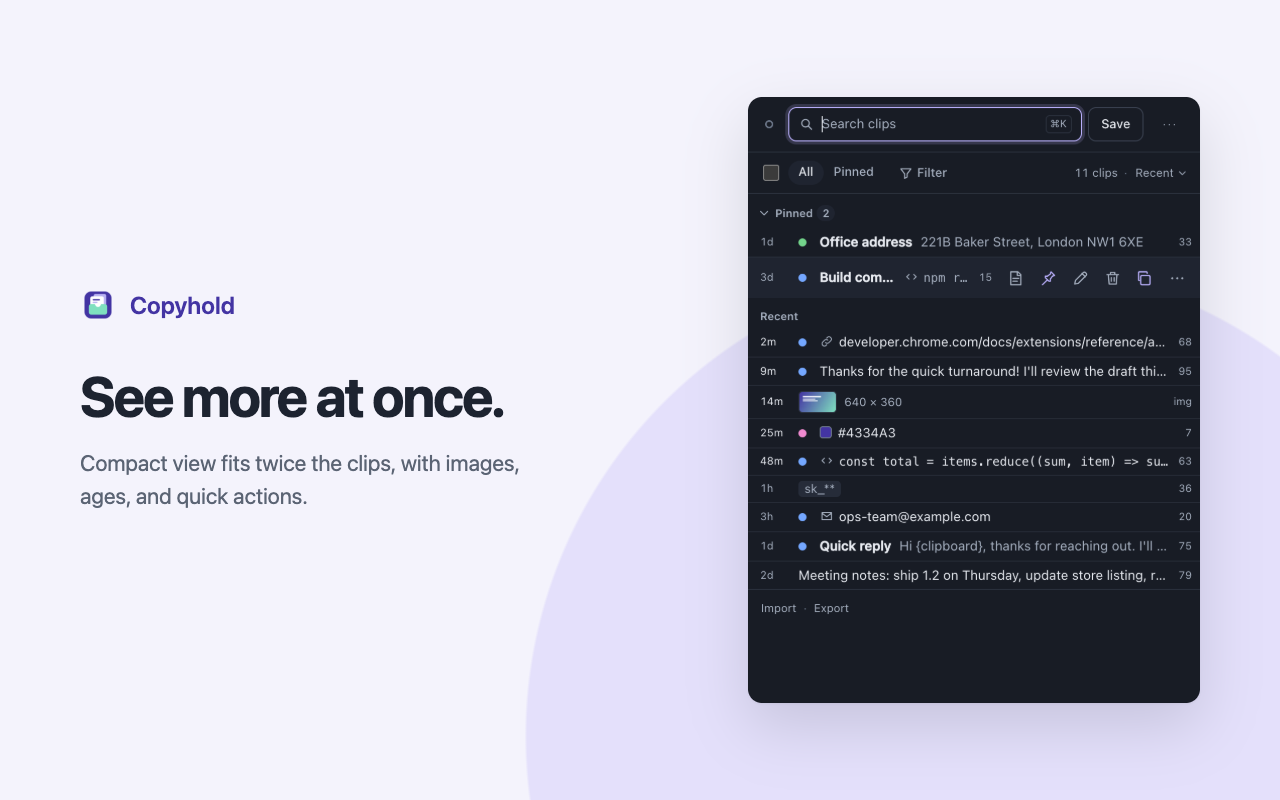
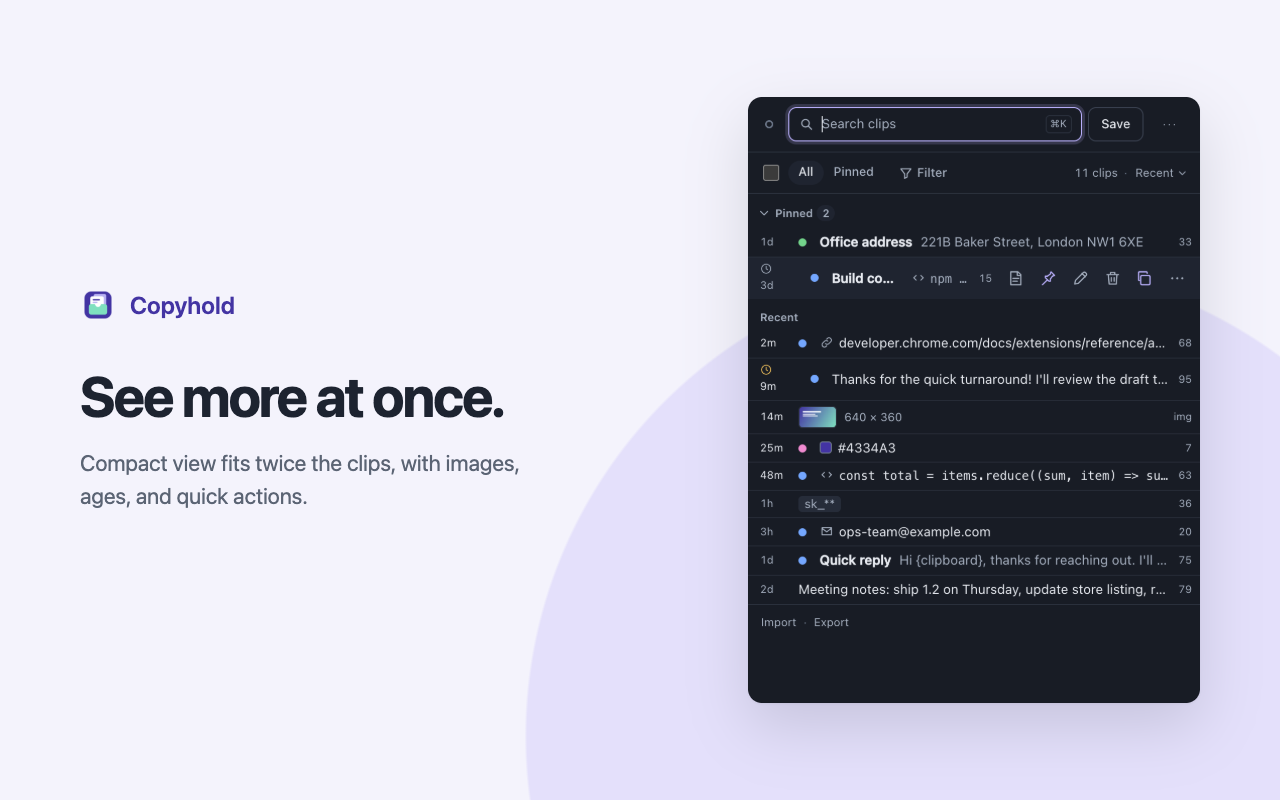
Mark expiring clips with a clock, show full details in Preview, and close with Escape
- Rows with an expiry show a clock beside their age, amber in the last
  hour, instead of an expiry string; the tooltip on the age has the date.
- Preview lists the category, subcategory, tags, expiry, saved and last
  copied dates, copy count, length, visibility, template, and source.
- In the popup, Escape closes Preview, menus, Settings, selection, or
  search text first, and closes the popup when nothing is open.
- Tests, docs, website, and screenshots.

diff --git a/src/popup/modules/list.js b/src/popup/modules/list.js
@@ -5,7 +5,7 @@ import { sensitiveLabel } from "../../lib/sensitive.js";
 import { updateSettings } from "../../lib/settings.js";
 import * as store from "../../lib/store.js";
 import { copyEntry, deleteEntry, openClipPreview, togglePin } from "./actions.js";
-import { byId, icon, iconPaths, run, status, textLine, timeElement } from "./dom.js";
+import { byId, dateFormat, icon, iconPaths, run, status, textLine, timeElement } from "./dom.js";
 import { openEditor } from "./editor.js";
 import { filterByTag, showActiveFilters } from "./filters.js";
 import { menuIsOpen, openMenu, openMenuForActive, recentlyClosedFor } from "./menu.js";
@@ -34,7 +34,10 @@ let copiedFeedbackTimer;
 
 setInterval(() => {
   for (const time of clipList.querySelectorAll("time")) time.textContent = relativeTime(time.dateTime);
-  for (const age of clipList.querySelectorAll(".clip-age")) age.textContent = shortAge(age.dataset.time);
+  for (const age of clipList.querySelectorAll(".clip-age")) {
+    age.querySelector(".age-text").textContent = shortAge(age.dataset.time);
+    if (age.dataset.expires) age.classList.toggle("expiry-soon", expiresSoon(age.dataset.expires));
+  }
 }, 60_000);
 
 export function clipName(entry) {
@@ -143,7 +146,7 @@ function hostOf(url) {
 // The category, tags, template badge, and source page under a clip. Selecting a tag filters by it.
 function labelsFor(entry) {
   const tags = entry.tags ?? [];
-  if (!entry.category && !tags.length && !entry.template && !entry.sourceUrl && !entry.expiresAt && !entry.sensitive) return null;
+  if (!entry.category && !tags.length && !entry.template && !entry.sourceUrl && !entry.sensitive) return null;
   const labels = document.createElement("div");
   labels.className = "clip-labels";
   // The chips and link are for pointers; screen readers get the same facts as text, since options can't hold controls.
@@ -177,12 +180,6 @@ function labelsFor(entry) {
     chip.addEventListener("click", () => filterByTag(tag));
     labels.append(chip);
   }
-  if (entry.expiresAt) {
-    const expiry = document.createElement("span");
-    expiry.className = "label-expiry";
-    appendMessage(expiry, "metaExpires", timeElement(entry.expiresAt));
-    labels.append(expiry);
-  }
   if (entry.sourceUrl) {
     const source = textLine("span", "source-link", t("fromSite", hostOf(entry.sourceUrl)));
     source.title = entry.sourceTitle ? `${entry.sourceTitle}\n${entry.sourceUrl}` : entry.sourceUrl;
@@ -199,6 +196,18 @@ function describeLabels(entry) {
   if (entry.tags?.length) parts.push(t("tagsDescription", entry.tags.join(", ")));
   if (entry.sourceUrl) parts.push(t("fromSite", hostOf(entry.sourceUrl)));
   return parts.join(". ");
+}
+
+function expiresSoon(expiresAt) {
+  return Date.parse(expiresAt) - Date.now() < 3_600_000;
+}
+
+/** When the clip was saved or copied, how long it is, and when it expires, in one line. */
+export function clipSummary(entry) {
+  const usedAt = entry.lastUsedAt ?? entry.createdAt;
+  const parts = [t(entry.lastUsedAt ? "metaCopied" : "metaSaved", relativeTime(usedAt)), sizeLabel(entry)];
+  if (entry.expiresAt) parts.push(t("expiresAt", relativeTime(entry.expiresAt), dateFormat.format(new Date(entry.expiresAt))));
+  return parts.join(" · ");
 }
 
 function sizeLabel(entry) {
@@ -219,11 +228,20 @@ function itemFor(entry) {
   key.className = "clip-key";
   key.setAttribute("aria-hidden", "true");
   const usedAt = entry.lastUsedAt ?? entry.createdAt;
-  const age = textLine("span", Date.now() - Date.parse(usedAt) < 3_600_000 ? "clip-age is-fresh" : "clip-age", shortAge(usedAt));
+  const age = document.createElement("span");
+  age.className = Date.now() - Date.parse(usedAt) < 3_600_000 ? "clip-age is-fresh" : "clip-age";
   age.dataset.time = usedAt;
+  // Clips that delete themselves show a clock beside their age, amber in the last hour; the details are in the tooltip and Preview.
+  if (entry.expiresAt) {
+    age.dataset.expires = entry.expiresAt;
+    age.classList.add("has-expiry");
+    age.classList.toggle("expiry-soon", expiresSoon(entry.expiresAt));
+    age.append(icon("clock", "action-icon expiry-icon"));
+  }
+  age.append(textLine("span", "age-text", shortAge(usedAt)));
   age.setAttribute("aria-hidden", "true");
   // The details line is gone from view; the age's tooltip keeps when it was used and how long it is.
-  age.title = `${t(entry.lastUsedAt ? "metaCopied" : "metaSaved", relativeTime(usedAt))} · ${sizeLabel(entry)}`;
+  age.title = clipSummary(entry);
   const label = sizeLabel(entry);
   const size = textLine("span", "clip-size", entry.kind === "image" ? t("imageShort") : displayLength(entry.text).toLocaleString());
   size.title = label;

diff --git a/src/popup/modules/actions.js b/src/popup/modules/actions.js
@@ -1,13 +1,14 @@
 import { copyClip } from "../../lib/clipboard.js";
 import { isExpired } from "../../lib/entries.js";
-import { clipPreview } from "../../lib/format.js";
+import { clipPreview, displayLength, relativeTime } from "../../lib/format.js";
+import { sensitiveLabel } from "../../lib/sensitive.js";
 import * as store from "../../lib/store.js";
 import { transformLabel } from "../../lib/transforms.js";
-import { byId, fullTab, run } from "./dom.js";
-import { refresh, showCopyFeedback } from "./list.js";
+import { byId, dateFormat, fullTab, icon, run, textLine } from "./dom.js";
+import { categoryDot, refresh, showCopyFeedback } from "./list.js";
 import { offerUndo } from "./undo.js";
 import { state } from "./state.js";
-import { t } from "../../lib/i18n.js";
+import { t, tn } from "../../lib/i18n.js";
 
 const previewDialog = byId("clip-preview");
 const previewText = byId("clip-preview-text");
@@ -88,6 +89,56 @@ function showPreviewContent(reveal) {
   previewText.textContent = reveal ? entry.text : clipPreview(entry.text, entry.visibility);
 }
 
+// Everything Copyhold knows about the clip, as label and value pairs under its content.
+function showDetails(entry) {
+  const rows = [];
+  const add = (label, ...values) => {
+    const value = document.createElement("dd");
+    value.append(...values);
+    rows.push(textLine("dt", "", label), value);
+  };
+  const none = () => textLine("span", "detail-none", t("detailNone"));
+  const dated = (timestamp) => `${dateFormat.format(new Date(timestamp))} (${relativeTime(timestamp)})`;
+
+  const category = document.createElement("span");
+  if (entry.category) {
+    const dot = categoryDot(entry.category);
+    if (dot) category.append(dot);
+    category.append(entry.category);
+  }
+  add(t("category"), entry.category ? category : none());
+  add(t("subcategory"), entry.subcategory || none());
+  add(t("tags"), entry.tags?.length ? entry.tags.map((tag) => `#${tag}`).join("  ") : none());
+
+  const expiry = document.createElement("span");
+  if (entry.expiresAt) {
+    expiry.className = Date.parse(entry.expiresAt) - Date.now() < 3_600_000 ? "detail-expiry expiry-soon" : "detail-expiry";
+    expiry.append(icon("clock", "action-icon expiry-icon"), dated(entry.expiresAt));
+    if (entry.defaultExpiry) expiry.append(textLine("span", "detail-note", t("detailDefaultExpiry")));
+  }
+  add(t("detailExpires"), entry.expiresAt ? expiry : t("noExpiry"));
+  add(t("detailSaved"), dated(entry.createdAt));
+  add(t("detailLastCopied"), entry.lastUsedAt
+    ? `${dated(entry.lastUsedAt)} · ${tn("timesCopied", entry.useCount ?? 0)}`
+    : t("detailNeverCopied"));
+  add(entry.kind === "image" ? t("detailSize") : t("detailLength"), entry.kind === "image"
+    ? t("imageDimensions", entry.width, entry.height)
+    : tn("characters", displayLength(entry.text)));
+  const visibility = { visible: t("visibilityShown"), masked: t("visibilityMasked"), hidden: t("visibilityHidden") }[entry.visibility];
+  add(t("detailVisibility"), entry.sensitive ? `${visibility} · ${t("maskedAutomatically", sensitiveLabel(entry.sensitive))}` : visibility);
+  if (entry.template) add(t("templateLabel"), t("detailTemplate"));
+  if (entry.sourceUrl) {
+    const link = document.createElement("a");
+    link.href = entry.sourceUrl;
+    link.target = "_blank";
+    link.rel = "noopener noreferrer";
+    link.textContent = entry.sourceTitle || entry.sourceUrl;
+    link.title = entry.sourceUrl;
+    add(t("detailSource"), link);
+  }
+  byId("clip-preview-details").replaceChildren(...rows);
+}
+
 function setRevealed(revealed) {
   revealPreview.dataset.revealed = String(revealed);
   revealPreview.textContent = revealed ? t("conceal") : t("reveal");
@@ -105,6 +156,7 @@ export function openClipPreview(entry) {
     element.textContent = value;
     element.hidden = !value;
   }
+  showDetails(entry);
   revealPreview.hidden = entry.visibility === "visible";
   setRevealed(revealPreview.hidden);
   previewDialog.showModal();

diff --git a/src/popup/popup.css b/src/popup/popup.css
@@ -1021,3 +1021,27 @@ textarea { resize: vertical; }
 .clip-third-line .clip-labels { flex: 0 2 auto; flex-wrap: nowrap; min-inline-size: 0; margin: 0; overflow: hidden; white-space: nowrap; }
 .clip-third-line .description + .clip-labels::before { content: "·"; color: var(--control); }
 .compact .clip-third-line { display: none; }
+
+/* A clock beside the age marks clips that delete themselves; amber in their last hour. */
+.clip-age { display: inline-flex; align-items: center; gap: 3px; }
+.clips:not(.compact) .clip-age { display: inline-flex; }
+.expiry-icon { inline-size: 12px; block-size: 12px; color: var(--muted); }
+.clip-age.expiry-soon .expiry-icon, .clip-age.expiry-soon { color: var(--warning); }
+.compact .clip-age.has-expiry { min-inline-size: 44px; }
+.preview-details {
+  display: grid;
+  grid-template-columns: max-content minmax(0, 1fr);
+  gap: 4px 14px;
+  margin: 4px 0 0;
+  padding: 10px 0 0;
+  border-block-start: 1px solid var(--line);
+  font-size: .86rem;
+}
+.preview-details dt { color: var(--muted); }
+.preview-details dd { margin: 0; overflow-wrap: anywhere; }
+.preview-details .category-dot { margin-inline-end: 6px; }
+.detail-none { color: var(--muted); }
+.detail-expiry { display: inline-flex; flex-wrap: wrap; align-items: center; gap: 4px 5px; }
+.detail-expiry.expiry-soon .expiry-icon { color: var(--warning); }
+.detail-note { color: var(--muted); font-size: .8rem; }
+:root:not(.full-tab) body:has(#clip-preview[open]) { min-block-size: 520px; }

diff --git a/e2e/extension.e2e.js b/e2e/extension.e2e.js
@@ -256,6 +256,22 @@ test("the Preview button on a row shows the whole clip", async () => {
   await page.waitForFunction(() => !document.querySelector("#clip-preview").open);
 });
 
+test("Escape closes the preview first, then the popup", async () => {
+  const popup = await browser.newPage();
+  await popup.goto(`${origin}/popup/popup.html`);
+  await popup.waitForFunction(() => document.querySelectorAll(".clip").length > 0);
+  await popup.evaluate(() => document.querySelector(".clip .show-preview").click());
+  await popup.waitForSelector("#clip-preview[open]");
+  assert.match(await popup.$eval("#clip-preview-details", (details) => details.textContent), /Saved/);
+  await popup.keyboard.press("Escape");
+  await popup.waitForFunction(() => !document.querySelector("#clip-preview").open);
+  assert.equal(popup.isClosed(), false);
+  const closed = new Promise((resolve) => popup.once("close", resolve));
+  await popup.keyboard.press("Escape");
+  await Promise.race([closed, wait(3000).then(() => { throw new Error("The popup didn't close"); })]);
+  await page.bringToFront();
+});
+
 test("deleting a clip can be undone", async () => {
   const before = (await storedClips()).length;
   await page.hover(".clip");

diff --git a/src/popup/main.js b/src/popup/main.js
@@ -2,6 +2,7 @@
 import "./modules/localized.js";
 import { byId, fullTab, run } from "./modules/dom.js";
 import { render, search } from "./modules/list.js";
+import { state } from "./modules/state.js";
 import "./modules/actions.js";
 import "./modules/menu.js";
 import "./modules/app-menu.js";
@@ -21,6 +22,15 @@ import { initLock } from "./modules/lock.js";
 
 document.documentElement.classList.toggle("full-tab", fullTab);
 byId("open-tab").hidden = fullTab;
+// Escape steps back one layer at a time: a dialog, menu, settings, selection, or search text closes first,
+// each with its own handler, and the next Escape closes the popup. The full-tab view stays open.
+document.addEventListener("keydown", (event) => {
+  if (fullTab || event.key !== "Escape" || event.defaultPrevented || event.isComposing) return;
+  if (document.querySelector("dialog[open], :popover-open") || byId("settings").open || state.selecting) return;
+  if (search.value && document.activeElement === search) return;
+  window.close();
+});
+
 run(async () => {
   if (!await initLock()) return;
   if (!fullTab) search.focus();

diff --git a/site/index.html b/site/index.html
@@ -156,8 +156,8 @@
             <figcaption><strong>Command palette</strong>Cmd+K or Ctrl+K finds any action, category, or tag.</figcaption>
           </figure>
           <figure>
-            <div class="frame"><img src="screenshots/popup-editor.png" width="896" height="1280" loading="lazy" alt="Editing a clip, with quick expiry choices of 1 hour, 1 day, 1 week, or never, and preview options."></div>
-            <figcaption><strong>Edits save themselves</strong>Change the text, category, or tags and it's saved as you type.</figcaption>
+            <div class="frame"><img src="screenshots/popup-preview.png" width="896" height="1280" loading="lazy" alt="Preview of a clip listing its category, subcategory, tags, expiry date, when it was saved, and its length."></div>
+            <figcaption><strong>Everything about a clip</strong>Preview shows the full text with its category, tags, expiry, and dates.</figcaption>
           </figure>
         </div>
         <figure class="gallery wide">

diff --git a/src/popup/popup.html b/src/popup/popup.html
@@ -359,6 +359,7 @@
     <p id="clip-preview-description" class="clip-preview-description" hidden></p>
     <pre id="clip-preview-text" tabindex="0" aria-label="Clip text" data-i18n-aria-label="clipText"></pre>
     <img id="clip-preview-image" class="clip-preview-image" alt="Clip image" hidden>
+    <dl id="clip-preview-details" class="preview-details"></dl>
     <form method="dialog" class="actions dialog-actions">
       <button id="clip-preview-reveal" class="secondary" type="button" aria-controls="clip-preview-text" data-i18n="reveal">Reveal</button>
       <button class="primary" autofocus data-i18n="close">Close</button>

diff --git a/src/popup/modules/dom.js b/src/popup/modules/dom.js
@@ -32,6 +32,7 @@ export const iconPaths = {
   shield: "M12 3 5 6v5c0 4.5 3 8.5 7 10 4-1.5 7-5.5 7-10V6l-7-3Z",
   image: "M4 5h16v14H4ZM4 16l5-5 4 4 2-2 5 5M15 9h.01",
   lock: "M7 11V8a5 5 0 0 1 10 0v3M5 11h14v10H5Z",
+  clock: "M12 7v5l3 2M21 12a9 9 0 1 1-18 0 9 9 0 0 1 18 0Z",
 };
 
 /**

diff --git a/README.md b/README.md
@@ -68,7 +68,9 @@ Pushes to `main` run the checks and browser tests in GitHub Actions, and changes
 - Open the popup with **Alt+Shift+Y** (**Option+Shift+Y** on macOS) if the shortcut is available. Search is focused when the popup opens.
 - Type to filter, use **Up** and **Down** to highlight a clip, and press **Enter** to copy it. **Alt+1** through **Alt+9** (**Option** on macOS) copy the clip at that position; hold **Alt** to see the numbers. By default the popup closes after a copy. Turn this off under **Close the popup after copying** in **Settings and backups**. The full-tab view stays open.
 - Click a clip row or its **Copy** button to copy the original text and record when it was used. Pinned clips appear first under **Pinned**, and the rest are sorted by recent use, or by creation time if they have never been copied from Copyhold.
-- Pointing at a clip, or highlighting it with the arrow keys, shows **Preview**, **Pin**, **Edit**, **Delete**, **Copy**, and **More actions** on the row. **Preview** shows the whole clip without copying it; masked and hidden clips stay concealed until you select **Reveal**. Deleting is immediate and can be undone.
+- Pointing at a clip, or highlighting it with the arrow keys, shows **Preview**, **Pin**, **Edit**, **Delete**, **Copy**, and **More actions** on the row. **Preview** shows the whole clip without copying it, with its category, subcategory, tags, expiry, when it was saved and last copied, how many times it was copied, its length, and the page it came from; masked and hidden clips stay concealed until you select **Reveal**.
+- A clock beside a clip's age means it deletes itself; it turns amber in the last hour. Point at the age for the exact time.
+- **Escape** closes the innermost thing first (Preview, a menu, Settings, selection, or search text); with nothing open, it closes the popup. Deleting is immediate and can be undone.
 - The header holds the automatic-saving dot, search, **Save**, and the **⋯** menu, which has **New clip**, **Open in new tab**, **Hide clip previews**, pause and lock controls, **Commands**, and **Settings and backups**.
 - Each clip shows up to three rows: its title, its content, and its description followed by its category and tags; how long ago it was used appears on the right. Point at the age for when it was saved or copied and how long it is.
 - Choose **Compact** under **List density** in **Settings and backups** to fit about twice as many clips: one line each, with how long ago it was used and its length.

diff --git a/CHANGELOG.md b/CHANGELOG.md
@@ -3,6 +3,9 @@
 ## 1.3.1
 
 - **Title, content, and description.** Each clip shows its title, its content, and its description, with the category and tags after the description, so descriptions you write are visible in the list.
+- **Expiry at a glance.** Clips that delete themselves show a small clock beside their age, amber in their last hour, instead of a line of text. Point at the age for the date, or open Preview.
+- **More in Preview.** Preview lists the category, subcategory, tags, expiry, when the clip was saved and last copied, how many times it was copied, its length, how it's shown, and the page it came from.
+- **Escape steps back.** The first Escape closes Preview or whatever is open; the next closes the popup.
 - **Preview from the row.** Pointing at a clip, or highlighting it, now shows a Preview button beside Pin, Edit, and Delete, so you can read the whole clip without copying it or opening the menu.
 
 ## 1.3.0

diff --git a/docs/release-checklist.md b/docs/release-checklist.md
@@ -68,6 +68,8 @@ Load it with **Load unpacked** on `chrome://extensions` and `edge://extensions`.
 - [ ] Turn off **Close the popup after copying**: Enter copies and the popup stays open.
 - [ ] Alt+1 to Alt+9 copy by position; holding Alt shows the numbers.
 - [ ] Shift+Enter opens the actions menu; each letter shortcut works; Escape returns to search.
+- [ ] Open Preview and press Escape: Preview closes and the popup stays. Press Escape again: the popup closes.
+- [ ] A clip with an expiry shows a clock by its age (amber in the last hour), and Preview lists its expiry, category, tags, and dates.
 - [ ] Pin, mask, show, edit, select, and delete work; Undo restores deleted clips and pausing over the undo bar stops its countdown.
 - [ ] A link clip shows **Open link**, which opens the page in a new tab.
 
